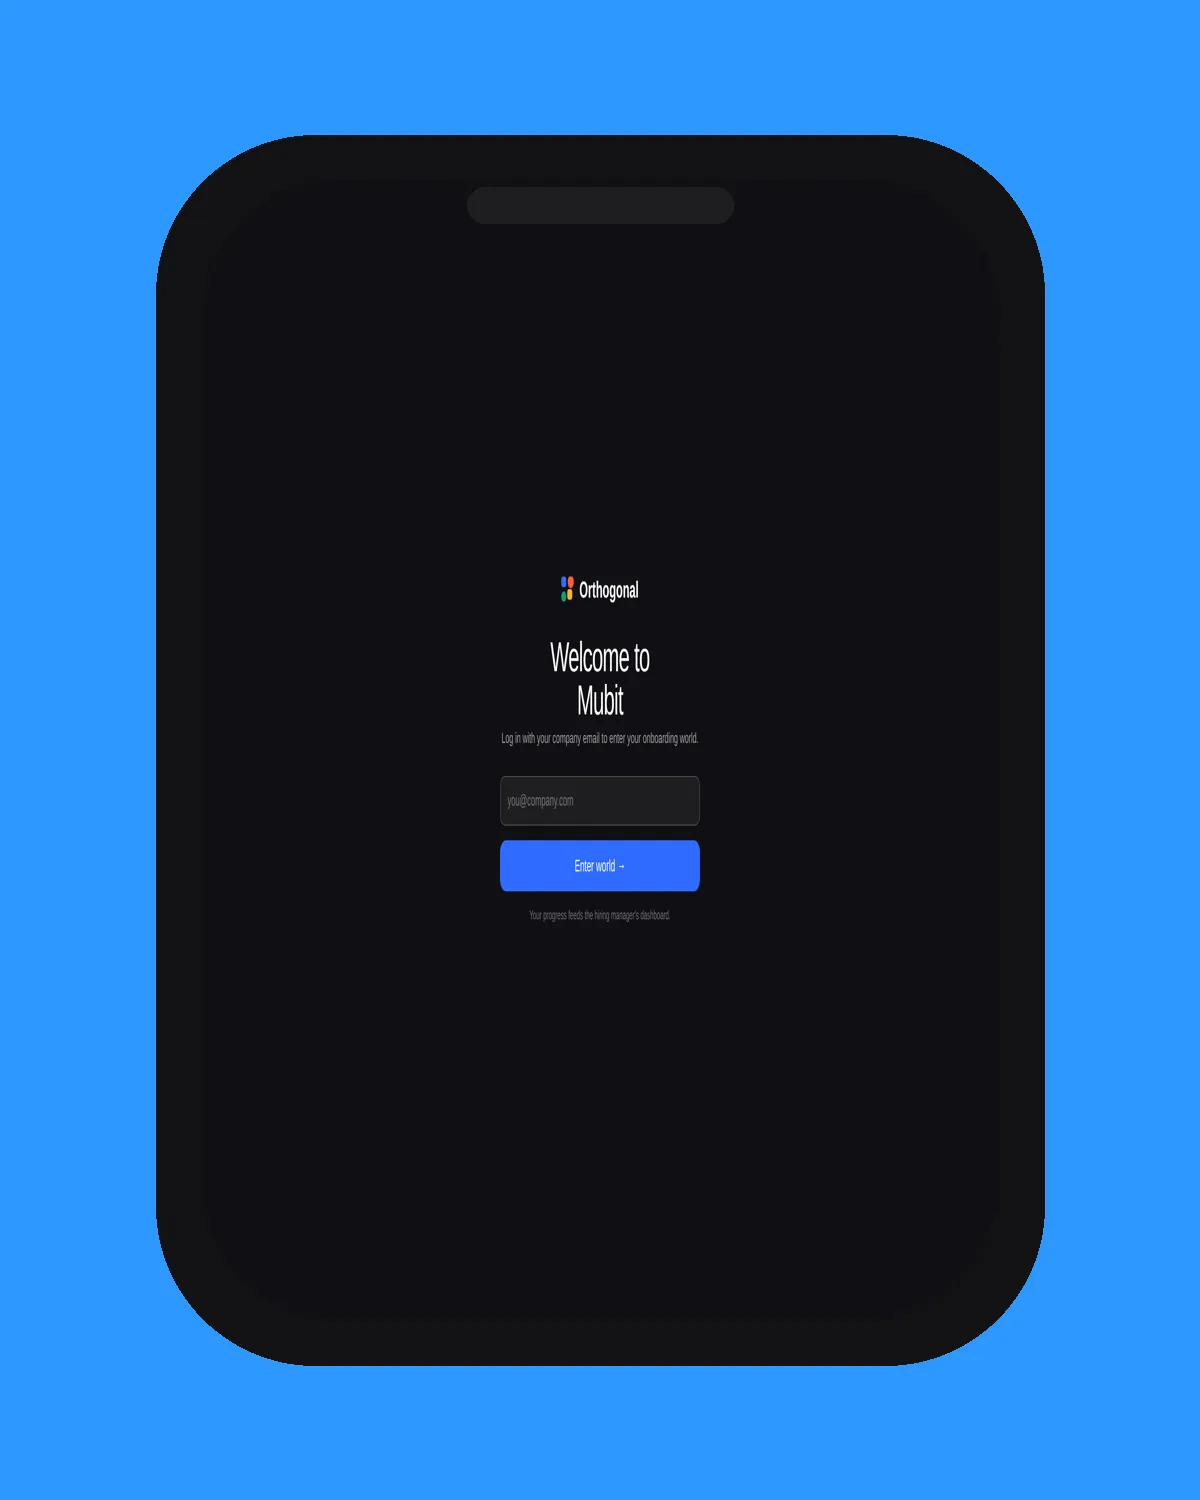
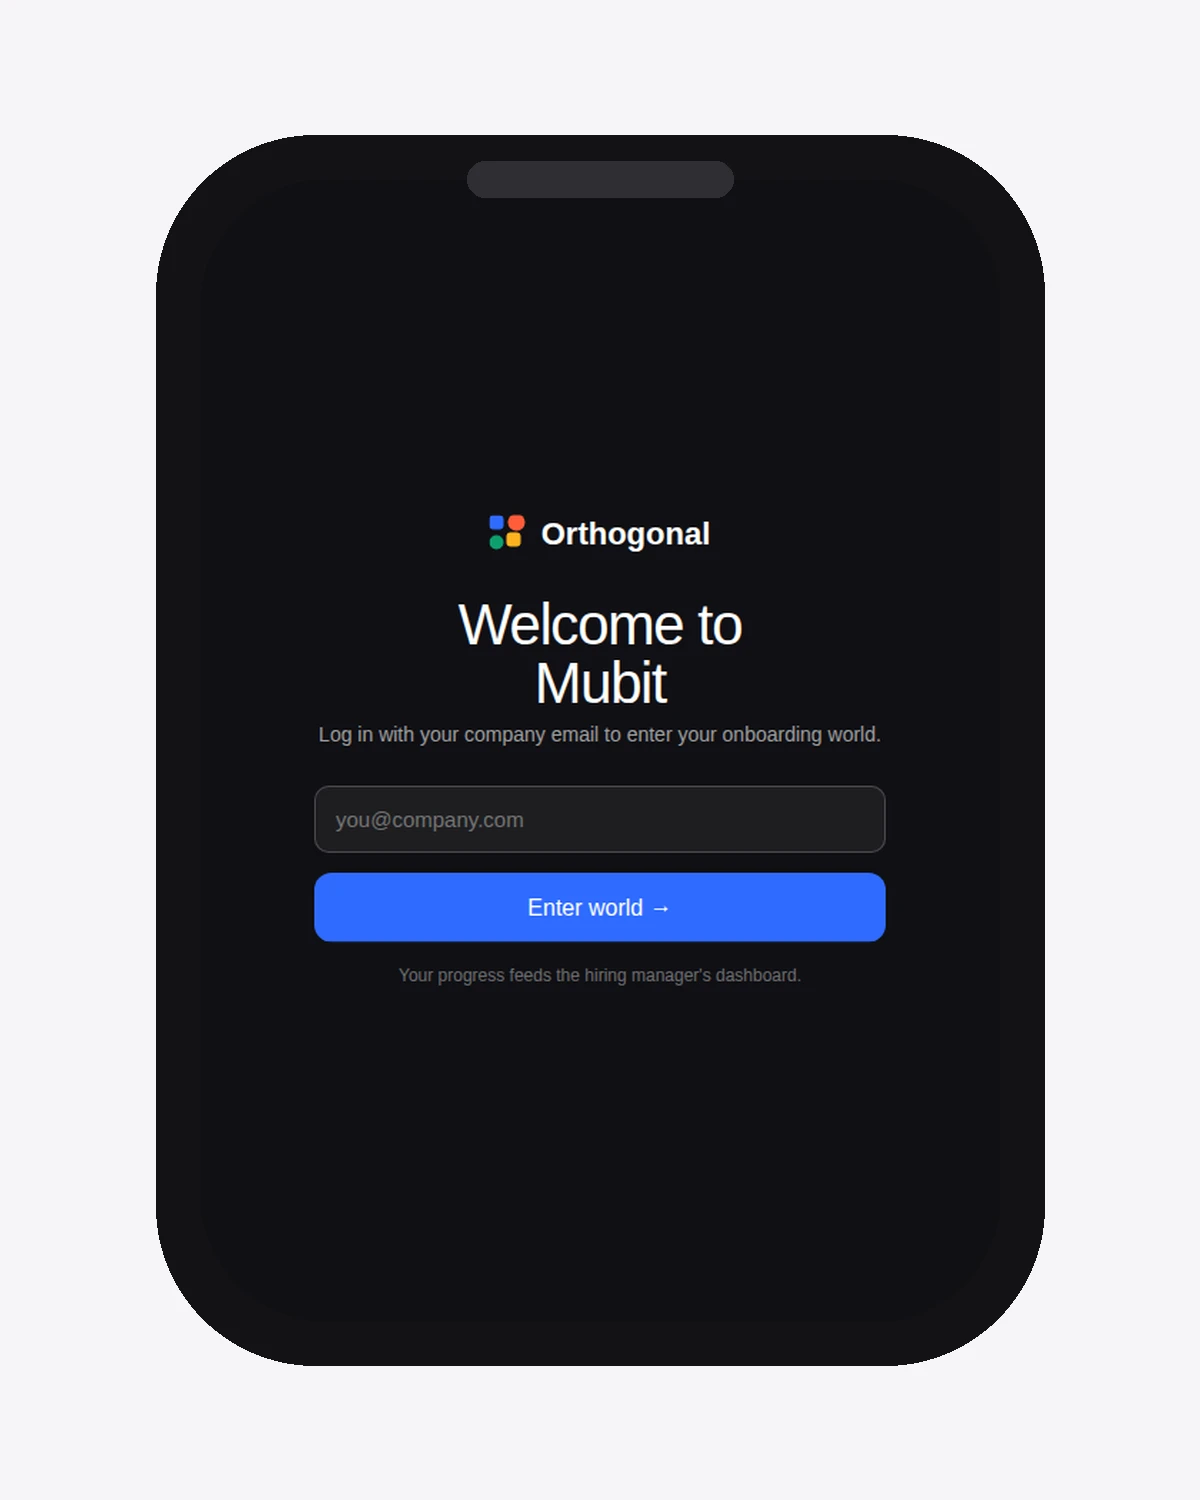
Features slider: light card like Easy-to-try media (no blue), 4:5 portrait, flush left of column, centered on mobile

diff --git a/index.html b/index.html
@@ -67,7 +67,12 @@ html.w-mod-js:not(.w-mod-ix3) .nav-links .navbar-link{visibility:visible !import
 .ortho-burger span{display:block;width:18px;height:2px;background:#fff;border-radius:2px;transition:transform .22s ease,opacity .22s ease}
 .ortho-burger.open span:nth-child(1){transform:translateY(7px) rotate(45deg)}
 .ortho-burger.open span:nth-child(2){opacity:0}
-.ortho-burger.open span:nth-child(3){transform:translateY(-7px) rotate(-45deg)}.w-nav-button{display:none !important}.chapter-heading{visibility:hidden !important}.nav_component{background-color:#1a1a1a !important}.nav-links .navbar-link{color:#fff !important}.nav-links .gsap_split_line,.nav-links .navbar-link,.nav-links .navbar-link *{transform:none !important;position:static !important;visibility:visible !important;opacity:1 !important;overflow:visible !important;color:#fff !important}.nav-container{background-color:transparent !important}.background-shape{z-index:-1 !important}.container-copy11{position:relative !important}html,body{overflow-x:hidden !important}section[id],div[id]{scroll-margin-top:90px}.container-copy11{position:relative !important}html,body{overflow-x:hidden !important}section[id],div[id]{scroll-margin-top:90px}.container-copy11{position:relative !important}html,body{overflow-x:hidden !important}section[id],div[id]{scroll-margin-top:90px}.container-copy11{position:relative !important}html,body{overflow-x:hidden !important}section[id],div[id]{scroll-margin-top:90px}.container-copy11{position:relative !important}html,body{overflow-x:hidden !important}section[id],div[id]{scroll-margin-top:90px}.container-copy11{position:relative !important}html,body{overflow-x:hidden !important}section[id],div[id]{scroll-margin-top:90px}.container-copy11{position:relative !important}html,body{overflow-x:hidden !important}section[id],div[id]{scroll-margin-top:90px}.media-wrapper{overflow:hidden !important}.w-slider-mask img{max-width:100% !important;height:auto !important}.text-area2{scrollbar-width:thin;scrollbar-color:rgba(0,0,0,.28) transparent;resize:vertical;overflow-x:hidden}.text-area2::-webkit-scrollbar{width:9px;height:9px}.text-area2::-webkit-scrollbar-track{background:transparent}.text-area2::-webkit-scrollbar-thumb{background:rgba(0,0,0,.28);border-radius:99px;border:2px solid transparent;background-clip:content-box}.text-area2::-webkit-scrollbar-corner{background:transparent}</style></head><body><div data-collapse="medium" data-duration="0" data-easing="ease" data-easing2="ease" role="banner" class="nav_component u-theme-dark w-nav"><div class="nav-container"><a href="#" aria-current="page" class="brand w-nav-brand w--current"><span style="font-family:Gdgaio,sans-serif;font-weight:600;font-size:26px;letter-spacing:-0.02em;color:#fff">Orthogonal</span></a><nav role="navigation" class="nav-menu w-nav-menu"><div class="nav-links"><a href="#How-it-works" class="navbar-link w-inline-block"><div>How it works</div></a><a href="#Features" class="navbar-link w-inline-block"><div>Features</div></a><a href="#Real" class="navbar-link w-inline-block"><div>About</div></a></div></nav><div class="nav-button-group"><a data-wf--button-main--variant="base" href="#Contact" class="button-main w-inline-block"><div class="text-button">Get in touch</div></a><div id="nav-login-wrap" class="div-block-213"><a data-wf--button-main--variant="secondary" href="space.html" class="button-main w-variant-af36ef6d-047f-5f46-1b4b-452dbc9684dc w-inline-block"><div class="text-button">Log in</div></a></div><button type="button" class="ortho-burger" aria-label="Menu" aria-expanded="false"><span></span><span></span><span></span></button></div></div></div><div class="w-embed"><style>
+.ortho-burger.open span:nth-child(3){transform:translateY(-7px) rotate(-45deg)}.w-nav-button{display:none !important}.chapter-heading{visibility:hidden !important}.nav_component{background-color:#1a1a1a !important}.nav-links .navbar-link{color:#fff !important}.nav-links .gsap_split_line,.nav-links .navbar-link,.nav-links .navbar-link *{transform:none !important;position:static !important;visibility:visible !important;opacity:1 !important;overflow:visible !important;color:#fff !important}.nav-container{background-color:transparent !important}.background-shape{z-index:-1 !important}.container-copy11{position:relative !important}html,body{overflow-x:hidden !important}section[id],div[id]{scroll-margin-top:90px}.container-copy11{position:relative !important}html,body{overflow-x:hidden !important}section[id],div[id]{scroll-margin-top:90px}.container-copy11{position:relative !important}html,body{overflow-x:hidden !important}section[id],div[id]{scroll-margin-top:90px}.container-copy11{position:relative !important}html,body{overflow-x:hidden !important}section[id],div[id]{scroll-margin-top:90px}.container-copy11{position:relative !important}html,body{overflow-x:hidden !important}section[id],div[id]{scroll-margin-top:90px}.container-copy11{position:relative !important}html,body{overflow-x:hidden !important}section[id],div[id]{scroll-margin-top:90px}.container-copy11{position:relative !important}html,body{overflow-x:hidden !important}section[id],div[id]{scroll-margin-top:90px}.media-wrapper{overflow:hidden !important}.w-slider-mask img{max-width:100% !important;height:auto !important}
+.slider-3{height:auto !important;aspect-ratio:4/5;border-radius:18px !important}
+.slider-3 .w-slider-mask{height:100% !important;border-radius:18px !important}
+.slider-3 .media-wrapper,.slider-3 .w-slide{height:100% !important}
+.slider-3 .image.ratio-4-5{width:100% !important;height:100% !important;object-fit:cover !important;margin:0 !important;left:0 !important;right:0 !important;position:relative !important;max-width:none !important}
+@media (max-width:991px){.slider-3{width:min(100%,440px) !important;margin:0 auto !important;float:none !important}}.text-area2{scrollbar-width:thin;scrollbar-color:rgba(0,0,0,.28) transparent;resize:vertical;overflow-x:hidden}.text-area2::-webkit-scrollbar{width:9px;height:9px}.text-area2::-webkit-scrollbar-track{background:transparent}.text-area2::-webkit-scrollbar-thumb{background:rgba(0,0,0,.28);border-radius:99px;border:2px solid transparent;background-clip:content-box}.text-area2::-webkit-scrollbar-corner{background:transparent}</style></head><body><div data-collapse="medium" data-duration="0" data-easing="ease" data-easing2="ease" role="banner" class="nav_component u-theme-dark w-nav"><div class="nav-container"><a href="#" aria-current="page" class="brand w-nav-brand w--current"><span style="font-family:Gdgaio,sans-serif;font-weight:600;font-size:26px;letter-spacing:-0.02em;color:#fff">Orthogonal</span></a><nav role="navigation" class="nav-menu w-nav-menu"><div class="nav-links"><a href="#How-it-works" class="navbar-link w-inline-block"><div>How it works</div></a><a href="#Features" class="navbar-link w-inline-block"><div>Features</div></a><a href="#Real" class="navbar-link w-inline-block"><div>About</div></a></div></nav><div class="nav-button-group"><a data-wf--button-main--variant="base" href="#Contact" class="button-main w-inline-block"><div class="text-button">Get in touch</div></a><div id="nav-login-wrap" class="div-block-213"><a data-wf--button-main--variant="secondary" href="space.html" class="button-main w-variant-af36ef6d-047f-5f46-1b4b-452dbc9684dc w-inline-block"><div class="text-button">Log in</div></a></div><button type="button" class="ortho-burger" aria-label="Menu" aria-expanded="false"><span></span><span></span><span></span></button></div></div></div><div class="w-embed"><style>
   /* Apply font smoothing */
   body {
     -webkit-font-smoothing: antialiased;
